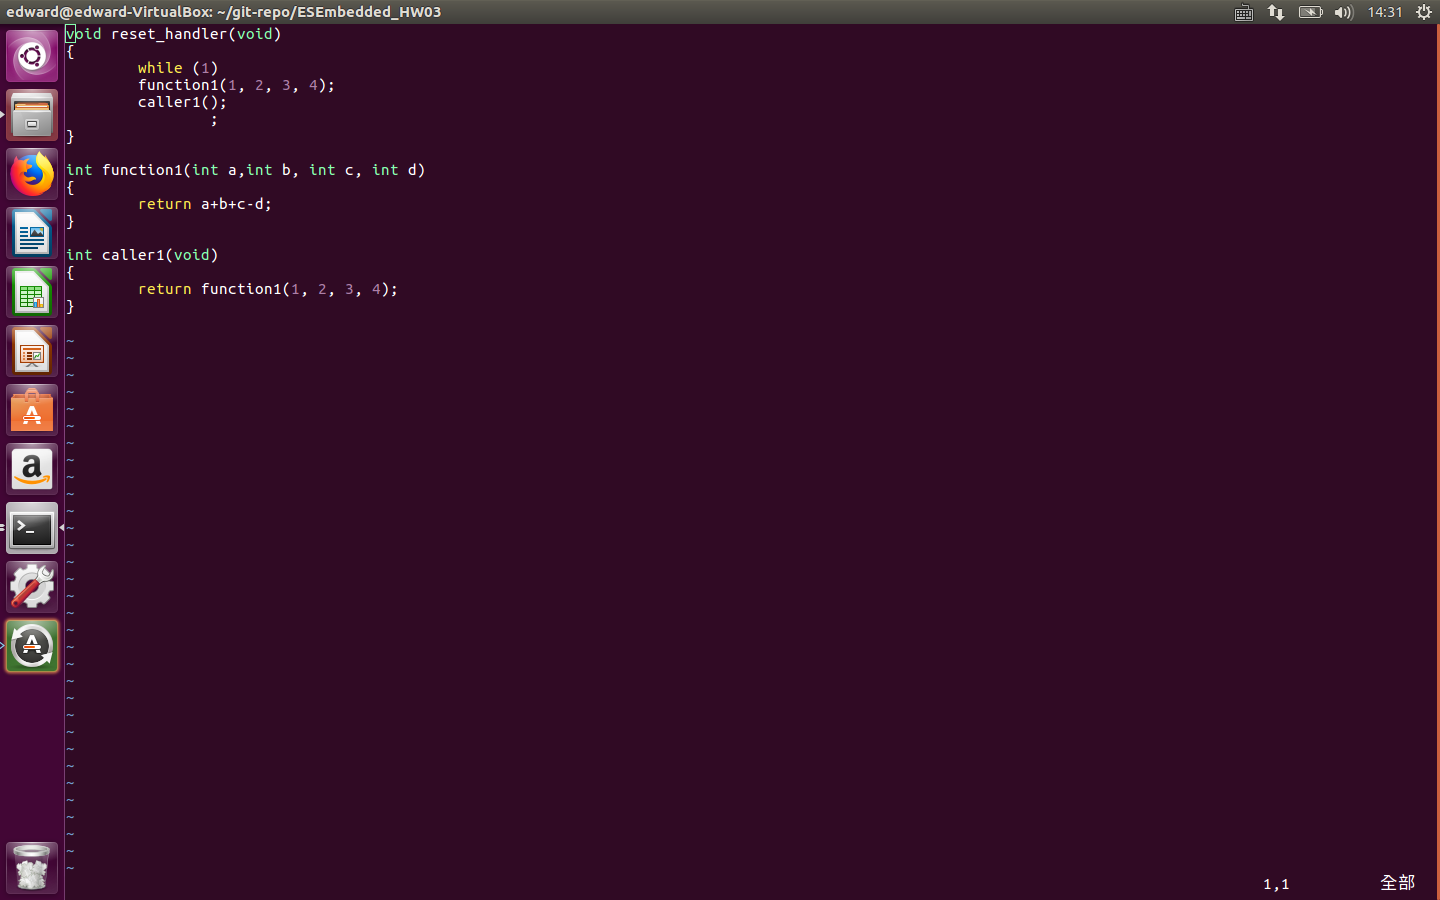
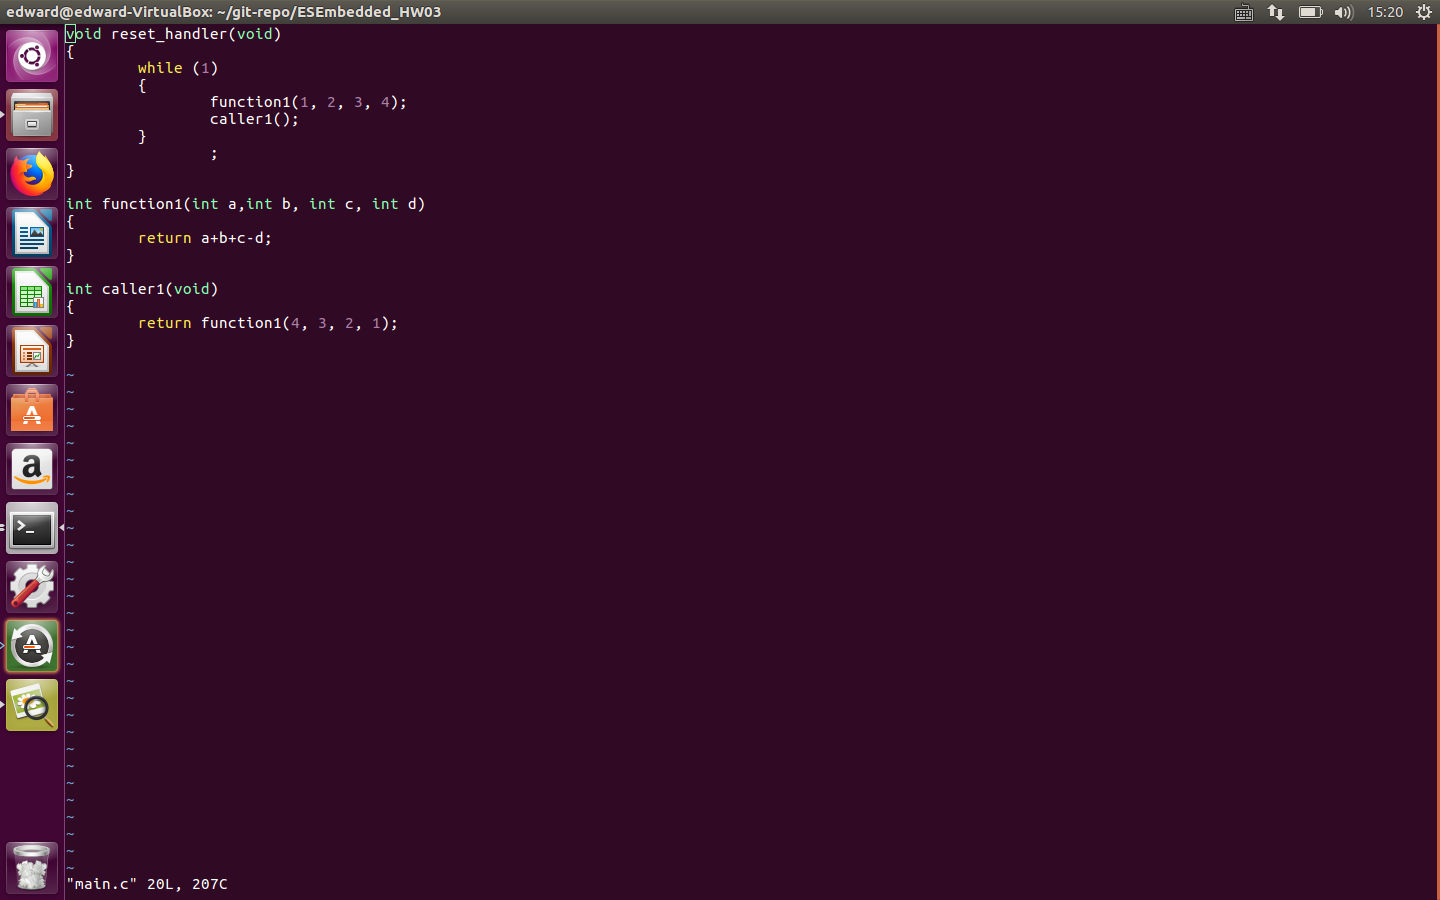
modify code and comment

diff --git a/main.c b/main.c
@@ -1,8 +1,10 @@
 void reset_handler(void)
 {	
 	while (1)
-	function1(1, 2, 3, 4);
-	caller1();
+	{
+		function1(1, 2, 3, 4);
+		caller1();
+	}
 		;
 }
 
@@ -13,6 +15,6 @@ int function1(int a,int b, int c, int d)
 
 int caller1(void)
 {
-	return function1(1, 2, 3, 4);
+	return function1(4, 3, 2, 1);
 }
 
